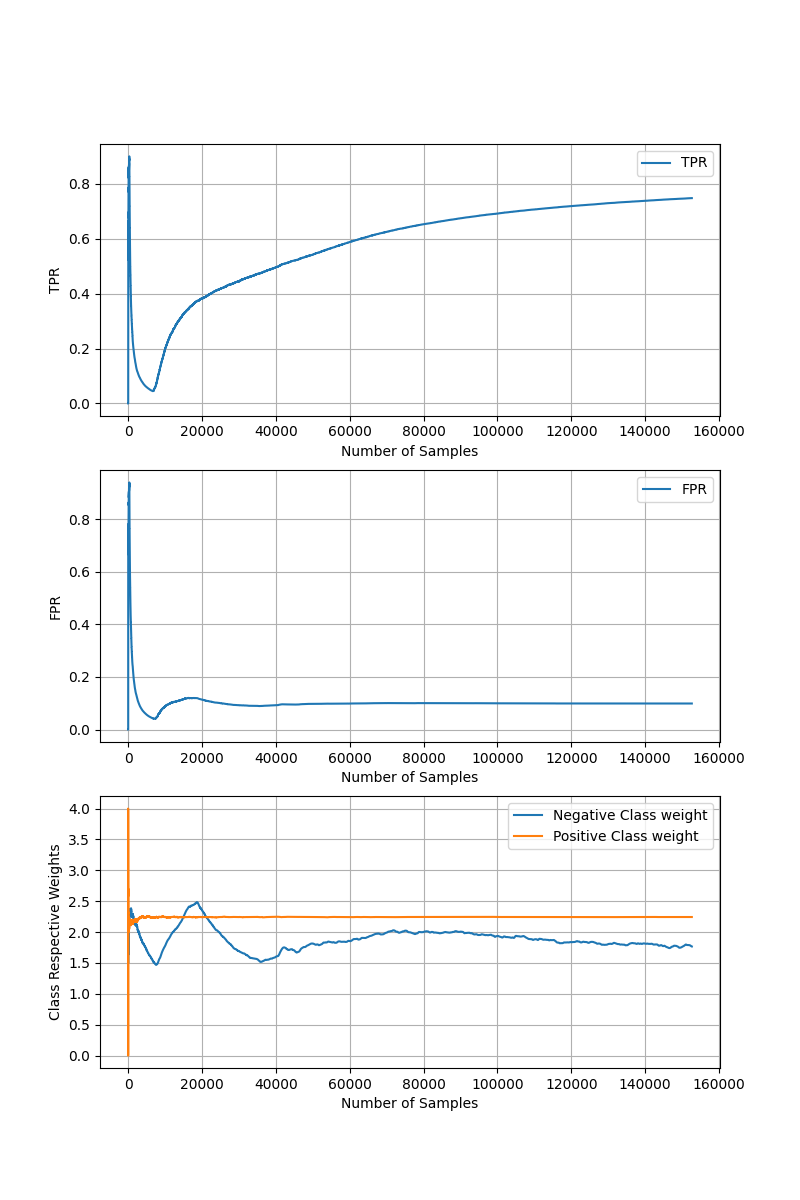
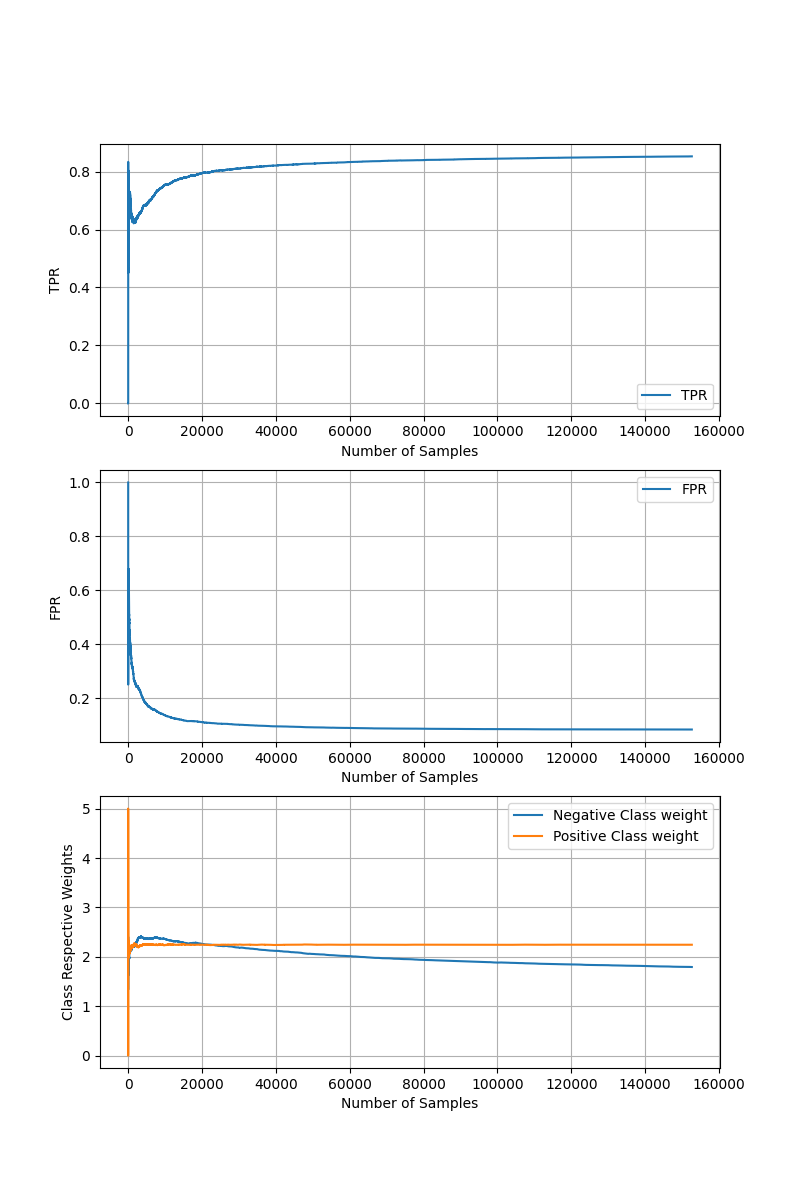
added all hyperparameters

diff --git a/main.py b/main.py
@@ -7,6 +7,11 @@ import numpy as np
 
 from npnn import npnn
 
+# Target False Alarm
+# NP framework aims to maximize the detection power while upper bounding the false alarm rate
+# target false alarm rate should be determined by the user
+target_FPR = 0.1
+
 # main 
 # np-nn works for 1,-1 classification
 # we expect data to be in tabular form with the latest column as target (check ./data/banana.csv)
@@ -24,13 +29,16 @@ X_test = sc.transform (X_test)
 
 # define hyperparameters
 parameters = {
-    'D':[2, 4], 
-    'g':[0.1, 1],
-    'Lambda':[0, 1e-4]
+    'eta_init': [0.01],               # default, 0.01
+    'beta_init': [100],               # default, 100
+    'sigmoid_h': [-1, -2],            # default, -1
+    'Lambda':[0, 1e-4],               # default, 0
+    'D':[2, 4],                       # default, 2
+    'g':[0.1, 1]                      # default, 1
     }
 
 # define classifier
-NPNN = npnn(tfpr=0.1)
+NPNN = npnn(tfpr=target_FPR)
 
 # hyperparameter tuning
 clf = GridSearchCV(NPNN, parameters, verbose=3, cv=2, n_jobs=-1)

diff --git a/npnn/npnn.py b/npnn/npnn.py
@@ -253,10 +253,12 @@ class npnn:
     def get_params(self, deep=True):
 
         params = dict()
+        params['eta_init'] = self.eta_init
+        params['beta_init'] = self.beta_init
+        params['sigmoid_h'] = self.sigmoid_h
+        params['Lambda'] = self.Lambda
         params['D'] = self.D
         params['g'] = self.g
-        params['eta_init'] = self.eta_init
-        params['Lambda'] = self.Lambda
         
         return params
 
